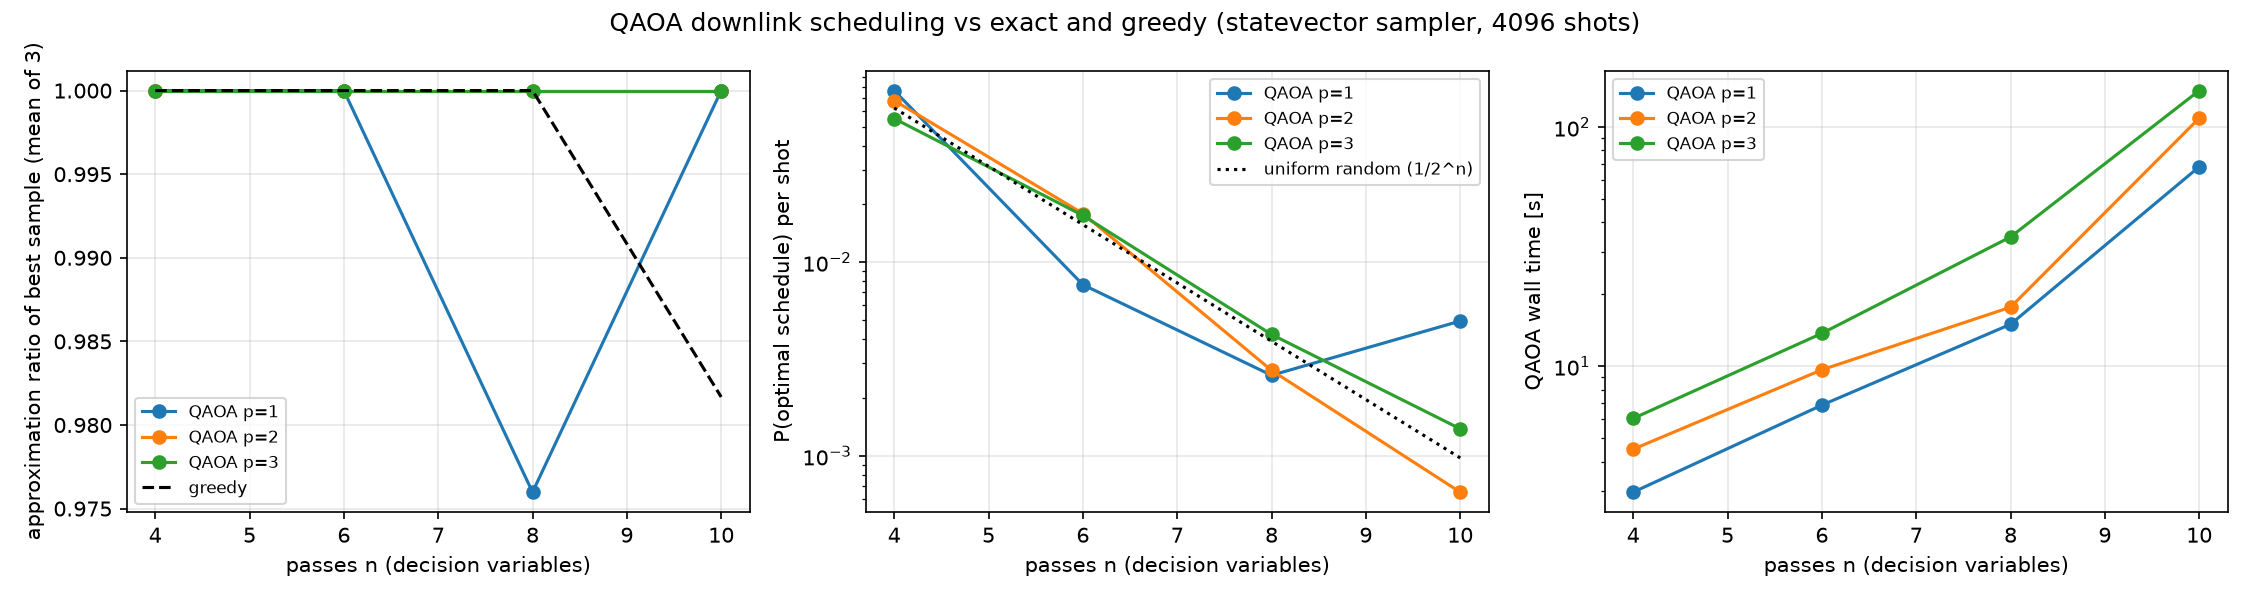
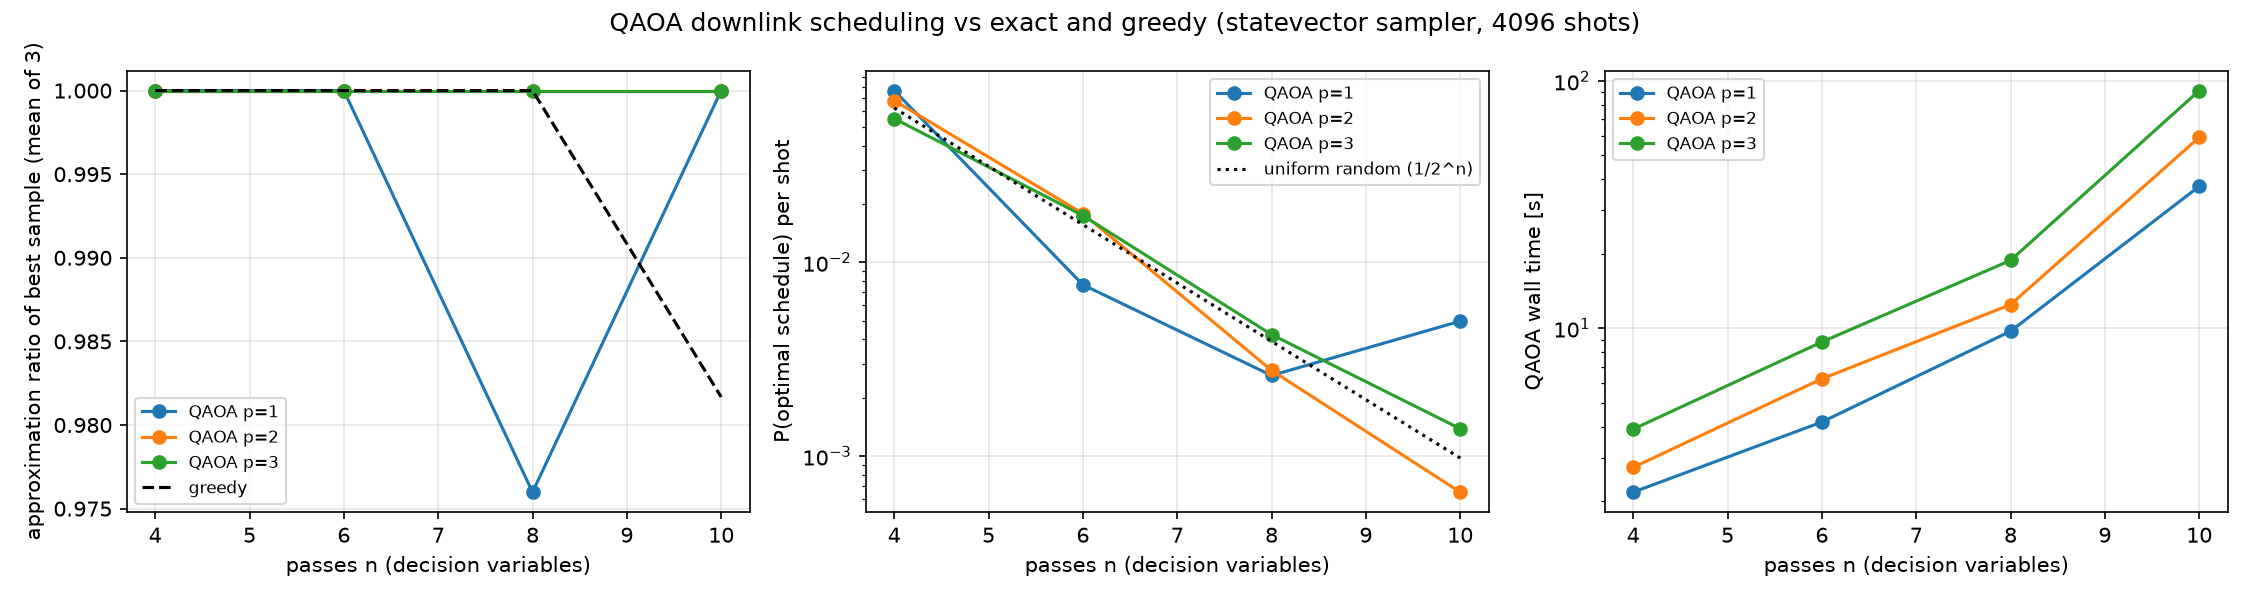
Seed VQC initial weights and refresh results from full reproducible run
- dt/quantum_ml.py: VQC drew random initial weights, so its scores changed
  between runs (found by running experiments/run_all.py end to end);
  initial weights are now seeded
- tests/test_quantum.py: test_vqc_training_is_reproducible (38 tests pass)
- results/: regenerated by run_all.py; all classical, QSVC, physics,
  twin-quality and QAOA-quality metrics reproduced exactly, only timings vary

diff --git a/tests/test_quantum.py b/tests/test_quantum.py
@@ -3,7 +3,7 @@ import pytest
 from qiskit_machine_learning.kernels import FidelityStatevectorKernel
 
 from dt.physics import SatellitePhysics
-from dt.quantum_ml import balanced_subsample, feature_map, make_qsvc, make_reducer
+from dt.quantum_ml import balanced_subsample, feature_map, make_qsvc, make_reducer, make_vqc
 from dt.quantum_opt import (brute_force, build_problem, energy_budget_units, feasible, greedy,
                             objective, qubo_stats, solve_exact_qubo, solve_qaoa)
 
@@ -82,6 +82,14 @@ def test_qsvc_learns_separable_toy():
     red = make_reducer(2).fit(X)
     model = make_qsvc(2).fit(red.transform(X), y)
     assert (model.predict(red.transform(X)) == y).mean() >= 0.95
+
+
+def test_vqc_training_is_reproducible():
+    rng = np.random.default_rng(2)
+    X = rng.uniform(0, np.pi, (16, 2))
+    y = (X[:, 0] > np.pi / 2).astype(int)
+    runs = [make_vqc(2, maxiter=5).fit(X, y).predict(X) for _ in range(2)]
+    np.testing.assert_array_equal(runs[0], runs[1])
 
 
 def test_balanced_subsample():

diff --git a/dt/quantum_ml.py b/dt/quantum_ml.py
@@ -50,9 +50,12 @@ def make_vqc(d: int, maxiter: int = 100, shots: int = 1024, history: list | None
         if history is not None:
             history.append(float(loss))
 
-    return VQC(feature_map=feature_map(d), ansatz=real_amplitudes(d, reps=3),
-               optimizer=COBYLA(maxiter=maxiter),
-               sampler=StatevectorSampler(default_shots=shots, seed=SEED), callback=cb)
+    ansatz = real_amplitudes(d, reps=3)
+    # VQC draws random initial weights unless given some; seed them so runs are reproducible
+    init = np.random.default_rng(SEED).uniform(-np.pi, np.pi, ansatz.num_parameters)
+    return VQC(feature_map=feature_map(d), ansatz=ansatz, optimizer=COBYLA(maxiter=maxiter),
+               sampler=StatevectorSampler(default_shots=shots, seed=SEED), callback=cb,
+               initial_point=init)
 
 
 def circuit_stats(d: int) -> dict:
